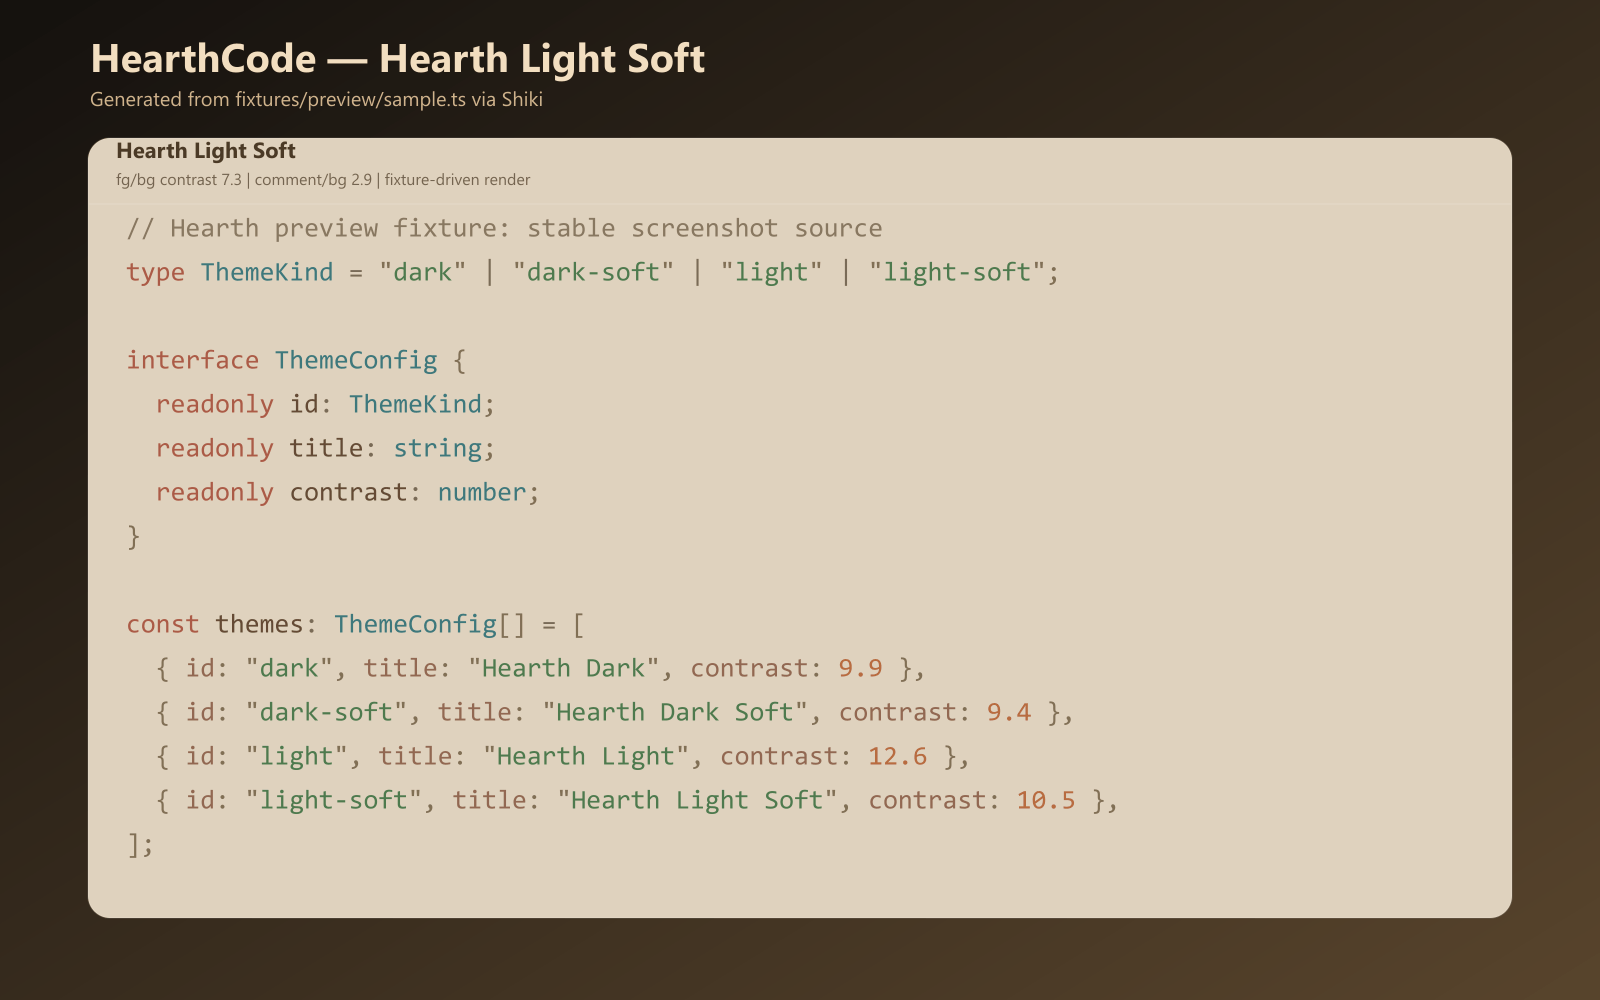
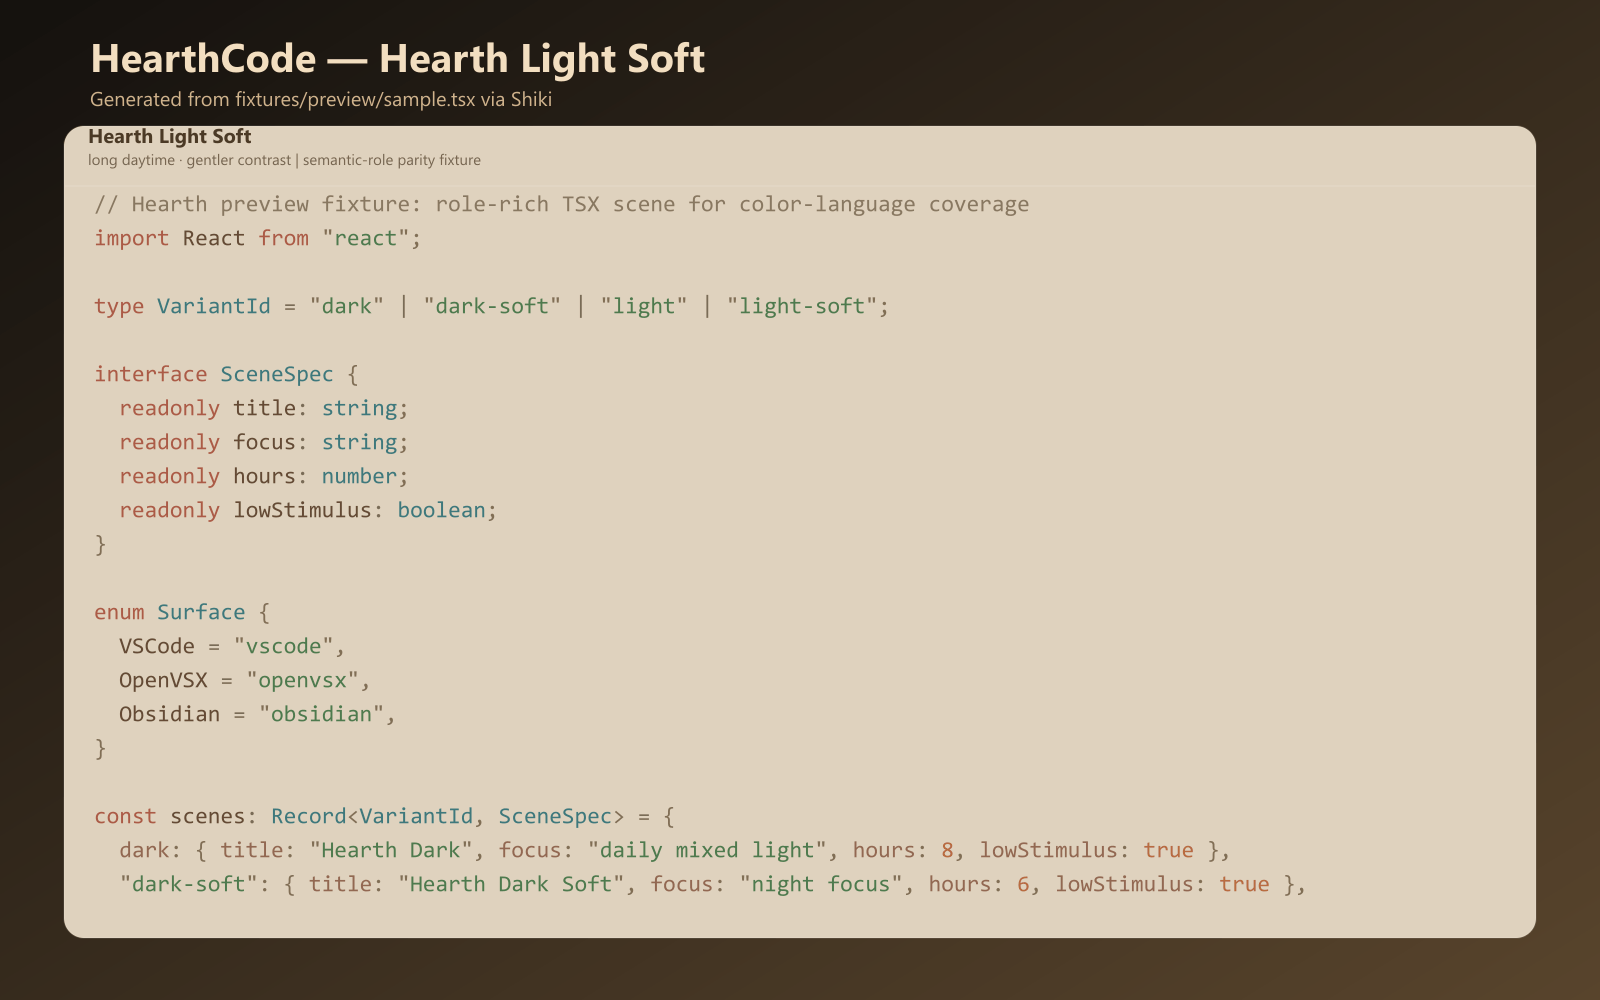
feat(preview): expand semantic role coverage in generated screenshots

diff --git a/fixtures/preview/sample.tsx b/fixtures/preview/sample.tsx
@@ -1,0 +1,74 @@
+// Hearth preview fixture: role-rich TSX scene for color-language coverage
+import React from "react";
+
+type VariantId = "dark" | "dark-soft" | "light" | "light-soft";
+
+interface SceneSpec {
+  readonly title: string;
+  readonly focus: string;
+  readonly hours: number;
+  readonly lowStimulus: boolean;
+}
+
+enum Surface {
+  VSCode = "vscode",
+  OpenVSX = "openvsx",
+  Obsidian = "obsidian",
+}
+
+const scenes: Record<VariantId, SceneSpec> = {
+  dark: { title: "Hearth Dark", focus: "daily mixed light", hours: 8, lowStimulus: true },
+  "dark-soft": { title: "Hearth Dark Soft", focus: "night focus", hours: 6, lowStimulus: true },
+  light: { title: "Hearth Light", focus: "daytime docs", hours: 7, lowStimulus: true },
+  "light-soft": { title: "Hearth Light Soft", focus: "long daytime", hours: 10, lowStimulus: true },
+};
+
+class PaletteEngine {
+  readonly seed = "hearth";
+  private readonly cache = new Map<string, number>();
+
+  build(variant: VariantId, surface: Surface) {
+    const scene = scenes[variant];
+    const ratio = Math.max(2, scene.hours / 2 + 3.4);
+    this.cache.set(`${variant}:${surface}`, ratio);
+    return {
+      variant,
+      surface,
+      scene,
+      ratio,
+      ok: ratio >= 7 && scene.lowStimulus,
+      note: scene.focus ?? "steady",
+    };
+  }
+}
+
+const engine = new PaletteEngine();
+const surfaces = [Surface.VSCode, Surface.OpenVSX, Surface.Obsidian];
+const reports = surfaces.map((surface) => engine.build("dark", surface));
+const primary = reports.find((item) => item.ok)?.scene.title ?? "Hearth";
+
+function PreviewCard(props: { title: string; accent: string; count: number }) {
+  return (
+    <section data-surface={props.title} className="card shell">
+      <h2>{props.title}</h2>
+      <p>{`${props.accent}:${props.count}`}</p>
+      <code>{reports.map((row) => `${row.surface}:${row.ratio.toFixed(1)}`).join(" | ")}</code>
+    </section>
+  );
+}
+
+export function PreviewGrid() {
+  return (
+    <main id="hearth-preview">
+      <PreviewCard title={primary} accent="semantic-parity" count={reports.length} />
+      <div className="tags">
+        <span data-kind="keyword">if</span>
+        <span data-kind="operator">=&gt;</span>
+        <span data-kind="function">build()</span>
+        <span data-kind="method">map()</span>
+        <span data-kind="property">scene.title</span>
+        <span data-kind="type">VariantId</span>
+      </div>
+    </main>
+  );
+}
